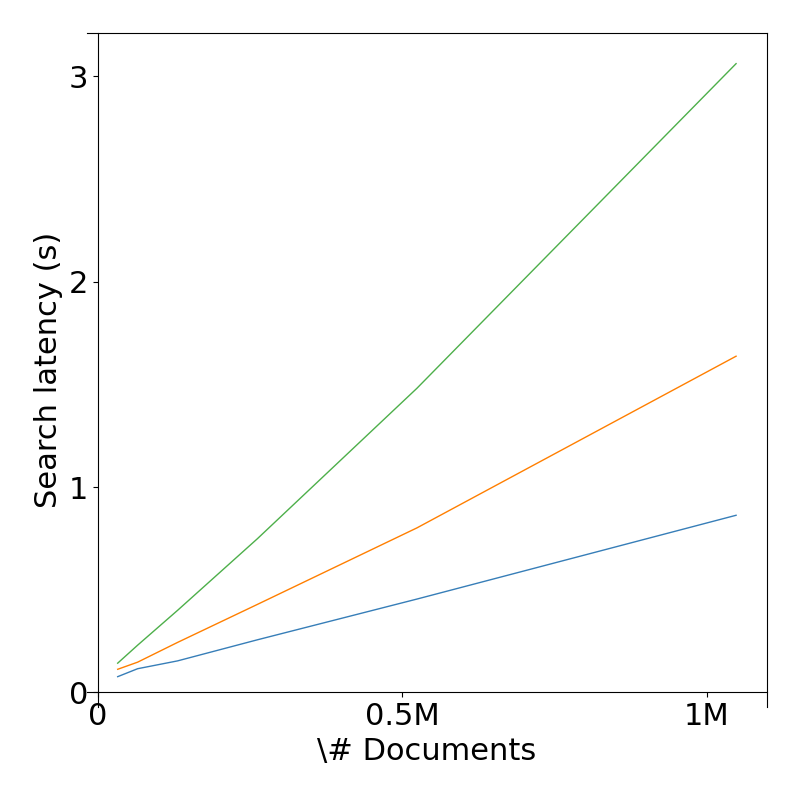
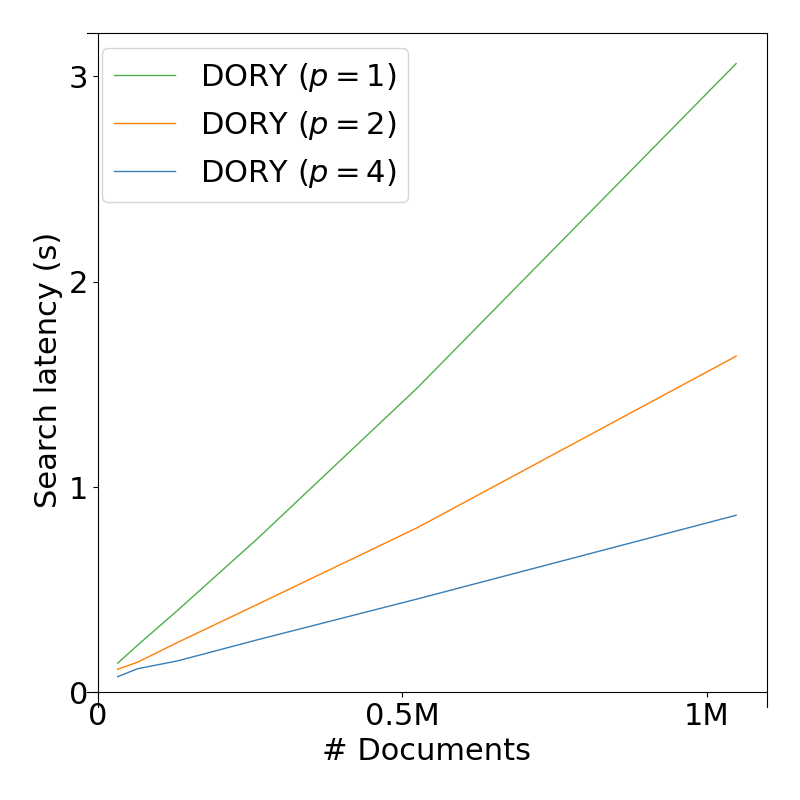
scripting baseline

diff --git a/bench/start_cluster.py b/bench/start_cluster.py
@@ -3,11 +3,13 @@ import subprocess
 import benchClient
 
 regionAMIs = {
-        "us-east-1": "ami-057e79f5781fe8619",
-        "us-east-2": "ami-09d625653d2d6cc74",
+        "us-east-1": "ami-0de2fb949cbb240c6",
+        "us-east-2": "ami-05cbdb8342970b14d",
         }
 
 filename = "../system.config"
+
+print("Starting cluster...")
 
 f_config = open(filename, "r")
 sysConfig = json.load(f_config)
@@ -26,7 +28,6 @@ east12Config = json.loads(out)
 east12IDs = [instance["InstanceId"] for instance in east12Config["Instances"]]
 
 cmd = ('export AWS_DEFAULT_REGION=us-east-1; aws ec2 run-instances --image-id %s --count 5 --instance-type r5n.4xlarge --key-name DoryKeyPair --placement "{\\\"AvailabilityZone\\\": \\\"us-east-1b\\\"}" --security-groups DoryGroup') % (regionAMIs["us-east-1"])
-#cmd = ('aws ec2 run-instances --image-id %s --count 5 --instance-type r5n.4xlarge --key-name DoryKeyPair --placement "{\\\"AvailabilityZone\\\": \\\"us-east-1b\\\"}" --security-groups DoryGroup') % (regionAMIs["us-east-1"])
 process = subprocess.Popen(cmd, shell=True, stdout=subprocess.PIPE)
 out = process.stdout.read()
 east11Config = json.loads(out)
@@ -92,7 +93,7 @@ for i in range(len(sysConfig["Servers"])):
 
 sysConfig["BaselineServerAddr"] = server2Addrs[0]
 sysConfig["BaselineServerID"] = east2IDs[0]
-sysConfig["BaselineClientAddr"] = [clientAddrs[1]]
+sysConfig["BaselineClientAddr"] = clientAddrs[1]
 sysConfig["BaselineClientID"] = east12IDs[1]
 
 sysConfig["SSHKeyPath"] = "~/.ssh/dory.pem"
@@ -124,6 +125,9 @@ print("Copying config files to instances")
 
 with open("../src/config/master.config", "w") as f:
     f.write(masterConfigBlob)
+
+# Wait for all instances to be fully started
+time.sleep(10)
 
 if sysConfig["MasterAddr"] != "127.0.0.1":
     cmd = ("scp -i %s -o StrictHostKeyChecking=no $(PWD)/../src/config/master.config ec2-user@%s:~/dory/src/config/master.config") % (sshKeyPath, sysConfig["MasterAddr"])

diff --git a/bench/start_baseline.py b/bench/start_baseline.py
@@ -1,0 +1,27 @@
+import sys, string, json, os
+from benchClient import generateRemoteCmdStr
+import subprocess
+
+username = "ec2-user"
+
+f_config = open('../system.config')
+config = json.load(f_config)
+f_config.close()
+keyPath = config["SSHKeyPath"]
+baselineServerAddr = config["BaselineServerAddr"]
+baselineClientAddr = config["BaselineClientAddr"]
+devNull = open(os.devnull, 'w')
+
+cmd = ("scp -i %s -o StrictHostKeyChecking=no %s %s@%s:%s") % (keyPath, keyPath, username, baselineServerAddr, keyPath)
+process = subprocess.Popen(cmd, shell=True)
+process.wait()
+
+cmd = ("scp -i %s -o StrictHostKeyChecking=no %s %s@%s:%s") % (keyPath, keyPath, username, baselineClientAddr, keyPath)
+process = subprocess.Popen(cmd, shell=True)
+process.wait()
+
+cmd = ("cd dory/baseline; nohup ./runTests.sh %s %s &") % (baselineServerAddr, keyPath)
+process = subprocess.Popen(generateRemoteCmdStr(baselineClientAddr, cmd) + " &", shell=True, stdout=devNull)
+process.wait()
+
+print(("Started baseline tests. In about 70 minutes, check dory/baseline/out/oram_1024 and dory/baseline/out/oram_2048 at IP address %s") % (baselineClientAddr))

diff --git a/bench/get_baseline_results.py b/bench/get_baseline_results.py
@@ -1,0 +1,22 @@
+import sys, string, json, os
+from benchClient import generateRemoteCmdStr
+import subprocess
+
+username = "ec2-user"
+
+f_config = open('../system.config')
+config = json.load(f_config)
+f_config.close()
+keyPath = config["SSHKeyPath"]
+baselineServerAddr = config["BaselineServerAddr"]
+baselineClientAddr = config["BaselineClientAddr"]
+
+cmd = ("scp -i %s -o StrictHostKeyChecking=no %s@%s:dory/baseline/out/oram_1024 out/oram_1024") % (keyPath, username, baselineClientAddr)
+process = subprocess.Popen(cmd, shell=True)
+process.wait()
+
+cmd = ("scp -i %s -o StrictHostKeyChecking=no %s@%s:dory/baseline/out/oram_2048 out/oram_2048") % (keyPath, username, baselineClientAddr)
+process = subprocess.Popen(cmd, shell=True)
+process.wait()
+
+print("Results of baseline copied to out/oram_1024 and out/oram_2048")

diff --git a/bench/plot_fig8c.py b/bench/plot_fig8c.py
@@ -54,7 +54,7 @@ ax = fig.add_subplot(111)
 ax.plot(malicious_1_x, malicious_1, color=dory_1_color, linewidth=1, label=r"DORY ($p=1$)")
 ax.plot(malicious_2_x, malicious_2, color=dory_2_color, linewidth=1, label=r"DORY ($p=2$)")
 ax.plot(malicious_4_x, malicious_4, color=dory_4_color, linewidth=1, label=r"DORY ($p=4$)")
-ax.set_xlabel(r"\# Documents")
+ax.set_xlabel(r"# Documents")
 ax.set_ylabel("Search latency (s)")
 ax.set_yticks([0,1,2,3])
 ax.set_xticks([0, 500000, 1000000])
@@ -63,6 +63,7 @@ ax.set_xticklabels(["0", "0.5M", "1M"])
 ax.spines['left'].set_position("zero")
 ax.spines['bottom'].set_position("zero")
 
+plt.legend()
 plt.tight_layout()
 plt.savefig("out/fig8c.png")
 plt.show()

diff --git a/bench/teardown_cluster.py b/bench/teardown_cluster.py
@@ -31,6 +31,7 @@ for i in range(len(sysConfig["Servers"])):
     region = "us-east-1"
     if i % 2 != 0:
         region = "us-east-2"
+    print(cmd)
     cmd = ('export AWS_DEFAULT_REGION=%s; aws ec2 terminate-instances --instance-ids "%s"') % (region, sysConfig["Servers"][i]["ID"])
     process = subprocess.Popen(cmd, shell=True, stdout=subprocess.PIPE)
     process.wait()

diff --git a/README.md b/README.md
@@ -8,19 +8,43 @@ This prototype is released under the Apache v2 license (see [License](#license))
 
 ## Setup
 
-1. [1 minute] Run `git clone https://github.com/ucbrise/dory` locally. Make sure python3 is downloaded. In `bench/`, run `pip3 install -r requirements.txt`.
+1. [2 minutes] Make sure python3 is downloaded. Then run the following:
+```
+git clone https://github.com/ucbrise/dory
+cd dory/bench
+mkdir out
+pip3 install -r requirements.txt
+
+```
 
 2. [5 minutes] Install [AWS CLI](https://docs.aws.amazon.com/cli/latest/userguide/cli-chap-install.html) and run `aws configure` using the instructions [here](https://docs.aws.amazon.com/cli/latest/userguide/cli-configure-quickstart.html) (use `json` as the default output format, and it does not matter what default region you choose).
 
 3. [Up to 1 day for vCPU limit increase request] Request a vCPU limit of 128 for `east-1` and `east-2`.
 
-4. [1 minute] Run `python3 init.py` in `bench/`. This will create a SSH keypair and security groups in `east-1` and `east-2`. The script will ask you to enter your password to change the permissions on the SSH private key file (`~/.ssh/dory.pem`). You should only run this setup once, and do not need to repeat this step if you set up another cluster (if you try to repeat this step, you will likely get error messages saying that the security key and/or security groups already exist).
+4. [1 minute] To initialize EC2 keypairs and security groups, run the following:
+```
+cd bench
+python3 init.py
+```
+This will create a SSH keypair and security groups in `east-1` and `east-2`. The script will ask you to enter your password to change the permissions on the SSH private key file (`~/.ssh/dory.pem`). You should only run this setup once, and do not need to repeat this step if you set up another cluster (if you try to repeat this step, you will likely get error messages saying that the security key and/or security groups already exist).
 
-5. [1 minute] Run `python3 start_cluster.py` in `bench/`. This will create the EC2 instances for the experiments using the correct AMI and copy configuration files to each instance. Default TLS keys and certificates are included for testing. You do not need to change these to run evaluation benchmarks, but in a real deployment, these should be freshly generated for security.
+5. [1 minute] To start a cluster, run the following:
+```
+cd bench
+python3 start_cluster.py
+```
+This will create the EC2 instances for the experiments using the correct AMI and copy configuration files to each instance. Default TLS keys and certificates are included for testing. You do not need to change these to run evaluation benchmarks, but in a real deployment, these should be freshly generated for security.
 
-6. When you are done with experiments (or just done for the day), run `python3 teardown_cluster.py` to terminate all the instances. 
+6. When you are done with experiments (or just done for the day), run the following to terminate all instances:
+```
+cd bench
+python3 teardown_cluster.py
+```
+Make sure to wait a few minutes between tearing down one cluster and setting up another cluster. It takes a few minutes for instances to fully terminate, and if you try to set up another cluster before the other has been fully shut down, you will exceed your vCPU limits.
 
 You've just finished setup! Follow the steps below to run experiments and reproduce our results.
+
+
 
 ## Running experiments
 
@@ -104,15 +128,20 @@ Figure 11c:
 
 To validate the baseline results we used for the above figures, we show how to reproduce our baseline results for 1,024 and 2,048 documents. This process takes several hours (whereas collecting all the data points takes approximately a week).
 
-For this experiment, you only need `baseline-client` `and baseline-server` running. We do not run this experiment locally (broken SSH pipes over a long period of time make this more challenging to script). Instead, you must SSH into `baseline-client` directly. From `baseline-client`, you will need to SSH into `baseline-server`, which you can do by copying your SSH key to `baseline-client` or via SSH agent forwarding.
-
-Run the following commands on `baseline-client` (recommend doing this as a background task or in a `tmux` session because it takes a long time):
+Run the following commands to start the experiment:
 ```
 cd dory/baseline
-./runTests.sh <server-IP-addr> <path-to-SSH-key>   # 70 minutes 
+python3 start_baseline.py   # 1 minute
 ```
 
-When the tests are completed, open `dory/baseline/out/oram_1024` and `dory/baseline/out/oram_2048`. Compare the reported search latency to the search latency points in Figure 8b, or look at the exact data points in `bench/ref/latency_search_oram.dat` (all data points reported in milliseconds). Compare the throughput for different workloads to the throughput points in Figures 10a, 10b, and 10c, or look at the exact data points in `bench/ref/oram_throughput_1_9.dat`, `bench/ref/oram_throughput_5_5.dat`, and `bench/ref/oram_throughput_9_1.dat` (units are operations per second).
+This script starts the experiment and returns immediately. In approximately 70 minutes, retrieve the results by running: 
+```
+cd dory/baseline
+python3 get_baseline_results.py     # Run 70 minutes after start_baseline.py
+```
+This will copy the output of the baseline experiments to `dory/baseline/out/oram_1024` and `dory/baseline/out/oram_2048`.
+
+Compare the reported search latency to the search latency points in Figure 8b, or look at the exact data points in `bench/ref/latency_search_oram.dat` (all data points reported in milliseconds). Compare the throughput for different workloads to the throughput points in Figures 10a, 10b, and 10c, or look at the exact data points in `bench/ref/oram_throughput_1_9.dat`, `bench/ref/oram_throughput_5_5.dat`, and `bench/ref/oram_throughput_9_1.dat` (units are operations per second).
 
 ## Stand-alone usage
 Start the master by running `runMaster.sh`, the servers by running `runServer.sh` and the client by running `runClient.sh`. Each script has a number of flags that can be set; run the scripts with `-h` to see all the flags.
